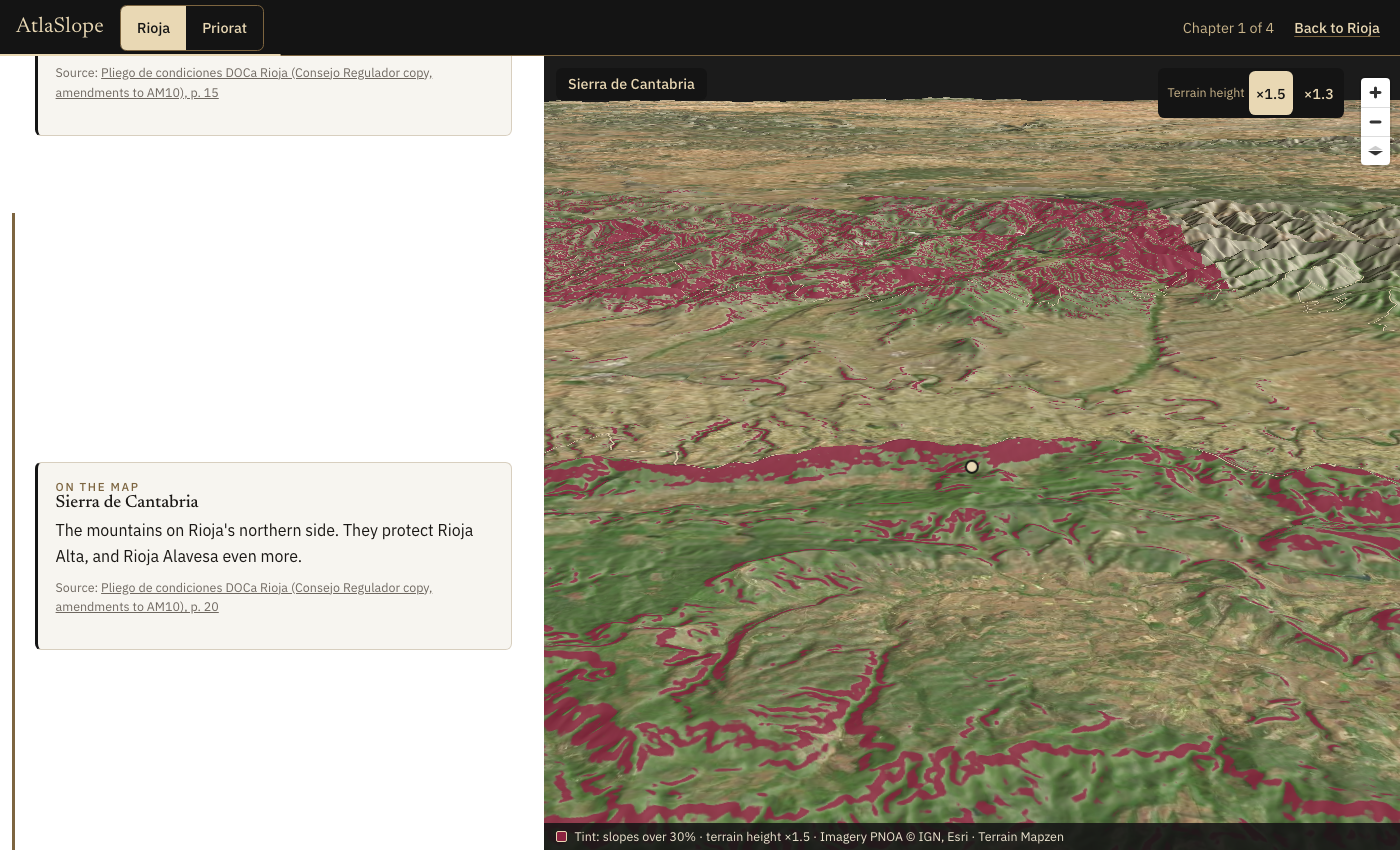
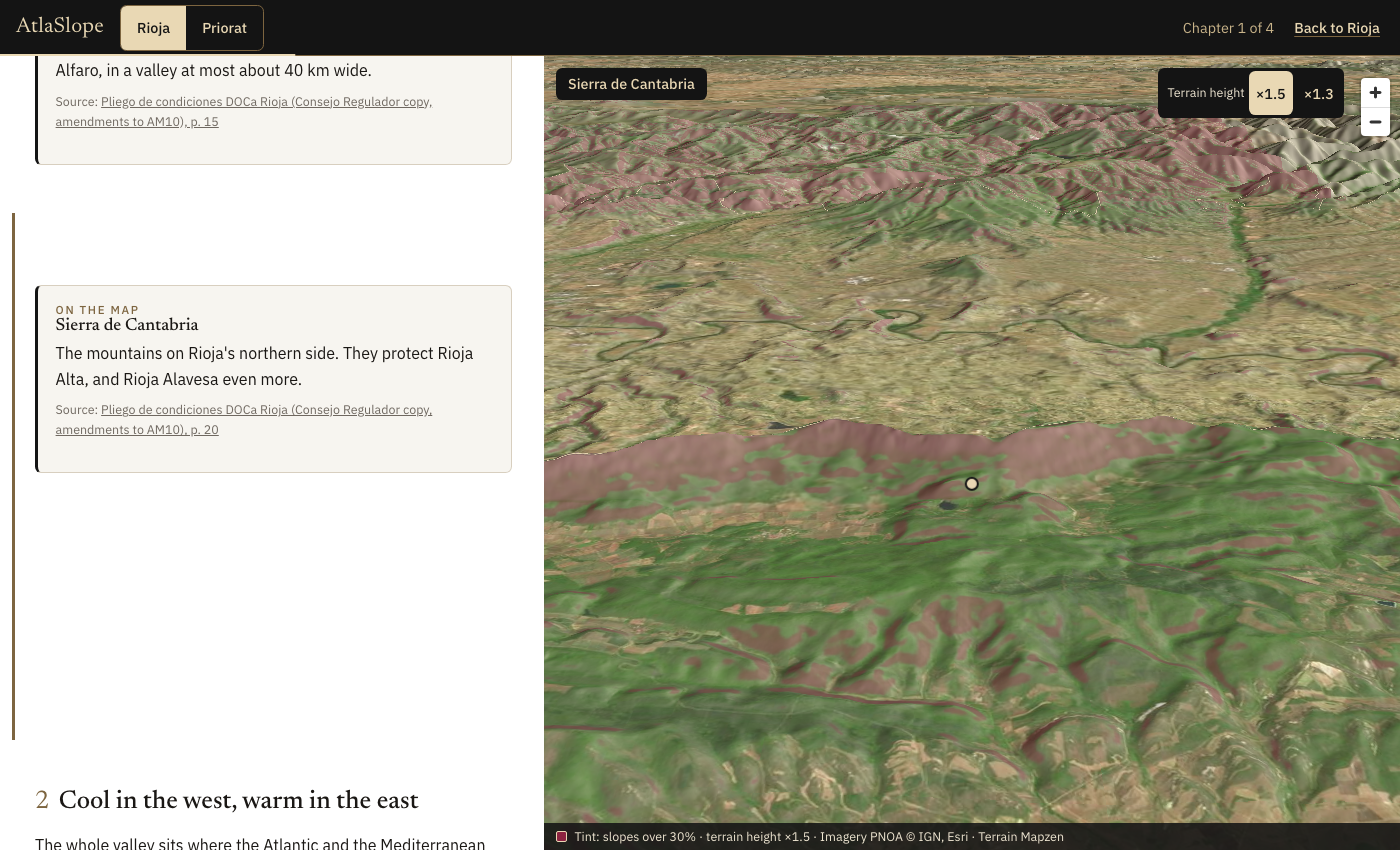
Story mock v2: design-check fixes (Sierra wall view, Siurana, phone credit, spacing, option D)

diff --git a/Review/mock-story-guide-v2/story.css b/Review/mock-story-guide-v2/story.css
@@ -50,12 +50,15 @@ h1,h2,h3{font-family:var(--serif);font-weight:500;line-height:1.15;margin:0}
 .opt-c{display:flex;flex-direction:column;gap:.1rem;padding:.9rem 1.5rem;border-radius:var(--r);background:var(--black);color:var(--champ);text-decoration:none}
 .opt-c .t{font:500 1.25rem var(--serif)}.opt-c .s{font-size:.78rem;color:var(--champ-m)}
 .opt-c:hover{background:#2a2622}
-.opt-d{display:flex;align-items:stretch;gap:1.25rem;padding:.75rem;border-radius:var(--r);background:var(--black);color:var(--champ);text-decoration:none;border-bottom:3px solid var(--champ)}
+.opt-d{display:flex;align-items:stretch;gap:1.25rem;padding:.75rem;border-radius:var(--r);background:var(--black);color:var(--champ);text-decoration:none}
+.opt-d:hover{background:#2a2622}
+.opt-A{border-color:transparent;padding-left:0}
+.mapcredit .short{display:none}
+.exag span{color:var(--champ-l)}
+.exag button{color:rgba(233,216,180,.8)}
 .opt-d img{width:6rem;height:6rem;border-radius:var(--r);object-fit:cover;flex:none;background:#222}
 .opt-d .body{display:flex;flex-direction:column;justify-content:center;gap:.25rem;flex:1;min-width:0}
 .opt-d .t{font:500 1.6rem/1.1 var(--serif)}.opt-d .s{font-size:.9rem;color:var(--champ-m)}
-.opt-d .go{align-self:center;padding:.6rem 1.1rem;border:1px solid var(--champ);border-radius:var(--r);font-weight:600;font-size:.9rem}
-.opt-d:hover .go{background:var(--champ);color:var(--black)}
 
 /* story */
 .sg{display:grid;grid-template-columns:minmax(0,34rem) minmax(0,1fr);border-top:1px solid var(--line2)}
@@ -73,7 +76,7 @@ h1,h2,h3{font-family:var(--serif);font-weight:500;line-height:1.15;margin:0}
 .mk.zl{background:rgba(20,20,20,.78);font-size:.9rem}.mk.zl.on{background:var(--champ);color:var(--black)}.mk.zl.off{opacity:.55}
 .dot{width:.9rem;height:.9rem;border-radius:50%;background:var(--champ);border:2px solid var(--black)}
 
-.step{min-height:78vh;display:flex;align-items:center;border-left:3px solid transparent;padding:3rem 0 3rem 1.25rem;margin-left:-1.25rem;transition:border-color .3s}
+.step{min-height:62vh;display:flex;align-items:flex-start;border-left:3px solid transparent;padding:3rem 0 3rem 1.25rem;margin-left:-1.25rem;transition:border-color .3s}
 .step.is-on{border-left-color:var(--champ-d)}
 .step-in{width:100%;max-width:34rem}
 .step-intro{min-height:auto;padding-top:2rem}
@@ -110,11 +113,12 @@ figure{margin:0 0 1.25rem}
   .sg{display:block}
   .mapwrap{position:sticky;top:var(--top);z-index:10;height:42vh;height:42dvh;grid-column:auto}
   .text{padding:0 1.25rem}
-  .step{min-height:70vh;padding:1.5rem 0 1.5rem 1rem;margin-left:-1rem}
+  .step{min-height:62vh;padding:2.5rem 0 1.5rem 1rem;margin-left:-1rem}
+  .mapcredit .more{display:none}.mapcredit .short{display:inline}.mapcredit{white-space:nowrap;overflow:hidden}
   .step h1{font-size:2rem}
   .chip{max-width:calc(100% - 11rem);font-size:.78rem}
   .exag{right:3rem;padding-left:.4rem}.exag span{display:none}
-  .opt-d{flex-wrap:wrap}.opt-d .go{display:none}.opt-d img{width:4.5rem;height:4.5rem}.opt-d .t{font-size:1.3rem}
+  .opt-d{flex-wrap:wrap}.opt-d img{width:4.5rem;height:4.5rem}.opt-d .t{font-size:1.3rem}
 }
 @media (max-height:32rem) and (max-width:61rem){.mapwrap{height:34vh;height:34dvh}}
 @media (prefers-reduced-motion:reduce){*{transition:none!important}}

diff --git a/Review/mock-story-guide-v2/story.js b/Review/mock-story-guide-v2/story.js
@@ -41,7 +41,7 @@
     scrollZoom: false, keyboard: false, dragRotate: true, touchPitch: false, attributionControl: false, maxPitch: 80,
   });
   window.__map = map;
-  map.addControl(new maplibregl.NavigationControl({ showCompass: true, visualizePitch: true }), 'top-right');
+  map.addControl(new maplibregl.NavigationControl({ showCompass: false, visualizePitch: true }), 'top-right');
 
   let ready = false, current = null, userMoved = false, markers = [];
   const el = (cls, text) => { const d = document.createElement('div'); d.className = cls; if (text) d.textContent = text; return d; };

diff --git a/Review/mock-story-guide-v2/build.py b/Review/mock-story-guide-v2/build.py
@@ -157,7 +157,7 @@ def build_rioja():
     # 1 Valley: looking up the valley from Alfaro towards Haro; the Sierra seen from the north as a wall.
     c = ch['valley']; f0, f1 = c['fly']
     V['valley'] = fly_view(f0, 'rioja', bounds=None, center=[-2.30, 42.37], zoom=8.6, pitch=55, bearing=-65, dot=None, markers=[['Haro', HARO], ['Alfaro', ALFARO]])
-    V['sierra'] = fly_view(f1, 'rioja', center=[-2.62, 42.60], zoom=10.7, pitch=72, bearing=180)
+    V['sierra'] = fly_view(f1, 'rioja', center=[-2.62, 42.60], zoom=11.7, pitch=70, bearing=180)
     S.append(('valley', 1, chapter_head('rioja', c, 1) + cite_html(c['cite']) + stop_html(f0)))
     S.append(('sierra', 1, stop_html(f1, True)))
     # 2 Climate: west to east, flat and north-up so the west-east change reads; then one tilted view per zone.
@@ -203,7 +203,7 @@ def build_priorat():
     # 1 Bowl: from the south, Montsant closes the north as a wall; along the Siurana depression; Scala Dei at the foot of Montsant.
     c = ch['bowl']; f0, f1, f2 = c['fly']
     V['montsant'] = fly_view(f0, 'priorat', center=[0.80, 41.235], zoom=10.4, pitch=68, bearing=0)
-    V['siurana'] = fly_view(f1, 'priorat', center=[0.786, 41.20], zoom=10.7, pitch=62, bearing=45)
+    V['siurana'] = fly_view(f1, 'priorat', center=[0.7863, 41.1994], zoom=10.7, pitch=55, bearing=45)
     V['scala'] = fly_view(f2, 'priorat', center=[0.8104, 41.2565], zoom=12.4, pitch=64, bearing=0)
     S.append(('montsant', 1, chapter_head('priorat', c, 1) + cite_html(c['cite']) + stop_html(f0)))
     S.append(('siurana', 1, stop_html(f1, True)))
@@ -265,7 +265,7 @@ def options_html(gid):
               f'<span class="s">{mins} minutes · {n} places to fly to</span></a>'),
         'D': (f'{sec}<a class="opt-d" href="#story" {go}><img src="{THUMB[gid]}" alt="Satellite view of {nm}" width="96" height="96" loading="lazy">'
               f'<span class="body"><span class="t">Read with the map</span>'
-              f'<span class="s">Fly over {nm} as you read. {n} places, {mins} minutes.</span></span><span class="go">Start</span></a>'),
+              f'<span class="s">Fly over {nm} as you read. {n} places, {mins} minutes.</span></span></a>'),
     }
 
 
@@ -278,7 +278,7 @@ cards = ''
 for k in 'ABCD':
     rec = '<span class="rec">Recommended</span>' if k == RECOMMENDED else ''
     inner = ''.join(f'<div class="opt-body" data-guide="{g}"{" hidden" if g != "rioja" else ""}>{opts[g][k]}</div>' for g in GUIDES)
-    cards += (f'<article class="opt{" is-rec" if k == RECOMMENDED else ""}" aria-labelledby="opt-{k}"><header><h3 id="opt-{k}">'
+    cards += (f'<article class="opt opt-{k}{" is-rec" if k == RECOMMENDED else ""}" aria-labelledby="opt-{k}"><header><h3 id="opt-{k}">'
               f'<span class="k">{k}</span>{OPTION_NAMES[k]}</h3>{rec}</header>{inner}</article>')
 
 # ---------- assets ----------
@@ -326,7 +326,7 @@ html = f'''<!doctype html>
     <p class="chip"></p>
     <div class="exag" role="group" aria-label="Terrain height"><span>Terrain height</span><button type="button" data-k="1.5" aria-pressed="true">×1.5</button><button type="button" data-k="1.3" aria-pressed="false">×1.3</button></div>
     <button class="recentre" type="button" hidden>Back to the story view</button>
-    <p class="mapcredit"><i class="sw" aria-hidden="true"></i>Tint: slopes over 30% · terrain height ×<span class="kx">1.5</span> · Imagery PNOA © IGN, Esri · Terrain Mapzen</p>
+    <p class="mapcredit"><i class="sw" aria-hidden="true"></i><span class="more">Tint: slopes over 30% · terrain height </span><span class="short">Slopes &gt;30% · height </span>×<span class="kx">1.5</span><span class="more"> · Imagery PNOA © IGN, Esri · Terrain Mapzen</span><span class="short"> · PNOA © IGN, Esri, Mapzen</span></p>
   </div>
 {texts}
 </main>

diff --git a/Review/mock-story-guide-v2/DESIGN-CHECK.md b/Review/mock-story-guide-v2/DESIGN-CHECK.md
@@ -1,0 +1,23 @@
+# Design check, story guide mock round 2 (21 Oct 2026)
+
+Verdict: fix first (small fixes, no redesign). Blocker 0, should-fix 5, nit 4.
+Ran: Chromium headless with software GL, 4.5 s wait per stop. Shots: shots/check-top, check-rioja-2, check-rioja-5, check-priorat-2, check-priorat-5, check-phone-2, check-full. Software GL may soften tiles a little; the blur in item 1 should be checked once in a real browser.
+
+## Should fix
+1. Sierra de Cantabria (Rioja stop 2): the view does not show "protect from the north". Camera looks along the range with a hazy horizon, the near half is blurred low-res tiles, and the range reads as a pink band, not a wall. Fix: look south from the north side (bearing about 180), pitch about 70, zoom in a step so the foreground tiles load, and place the pin on the crest.
+2. Slope tint, Priorat slate hills and Siurana: pink-maroon covers about a third of the land, so it reads as a colour wash on the satellite image, not "light". Fix: cap opacity at about 15 to 18% (README says 27%), or fade it in only above 35%; keep Rioja as is.
+3. Siurana river (Priorat stop 1): the sentence is about a river in a depression, but the river is barely visible (small dark line at the bottom, a lake at the right edge). Fix: centre on the river course, lower pitch to about 55, add the river as a thin champagne line.
+4. Phone, Sierra de Cantabria: the credit line (3 lines) sits over the top of the stop card and cuts its heading. The ON THE MAP label and title are hidden under the map. Fix: put the credit under the map in 1 line (shorten to "Tint: slopes over 30% · height x1.5 · IGN, Esri, Mapzen") and add scroll-margin so the card starts below the sticky map.
+5. Desktop, Rioja stop 2: about 250 px of empty white above the card, the left column feels empty while the map does the work. Fix: reduce the spacer between steps, or start each stop card higher.
+
+## Nits
+6. Option A to D: the four cards are distinct and plain, no pills, no icons. A and B are very close in weight; give A no card border so it reads as a link inside a paragraph.
+7. Option D: the champagne bar under the band is cut off at the bottom of the card, and "Start" is a second outlined button that competes with the band. Fix: make the whole band the click target, drop "Start".
+8. Map controls: the compass button icon in the top-right controls is a tiny arrow glyph, unclear. Fix: use the default MapLibre compass or hide it.
+9. Terrain switch: the unselected x1.3 label is low contrast on black (grey on #111). Fix: use champagne at 70%.
+
+## Checked and fine
+- Rioja Alavesa stop: outline in champagne, label, strong view of the zone against the Sierra; the tint is light here and the land stays readable.
+- No dark patches outside the black band and map chrome, no pills, no drawn illustrations. Credit line states tint and terrain height at all sizes. Black band, champagne, 6px corners as per house style.
+- Priorat slate hills view shows steep slopes well (the tint is the only issue, see 2).
+- Not checked: motion and reduced-motion, large text, iPad width, Priorat stops 3 and 4.
